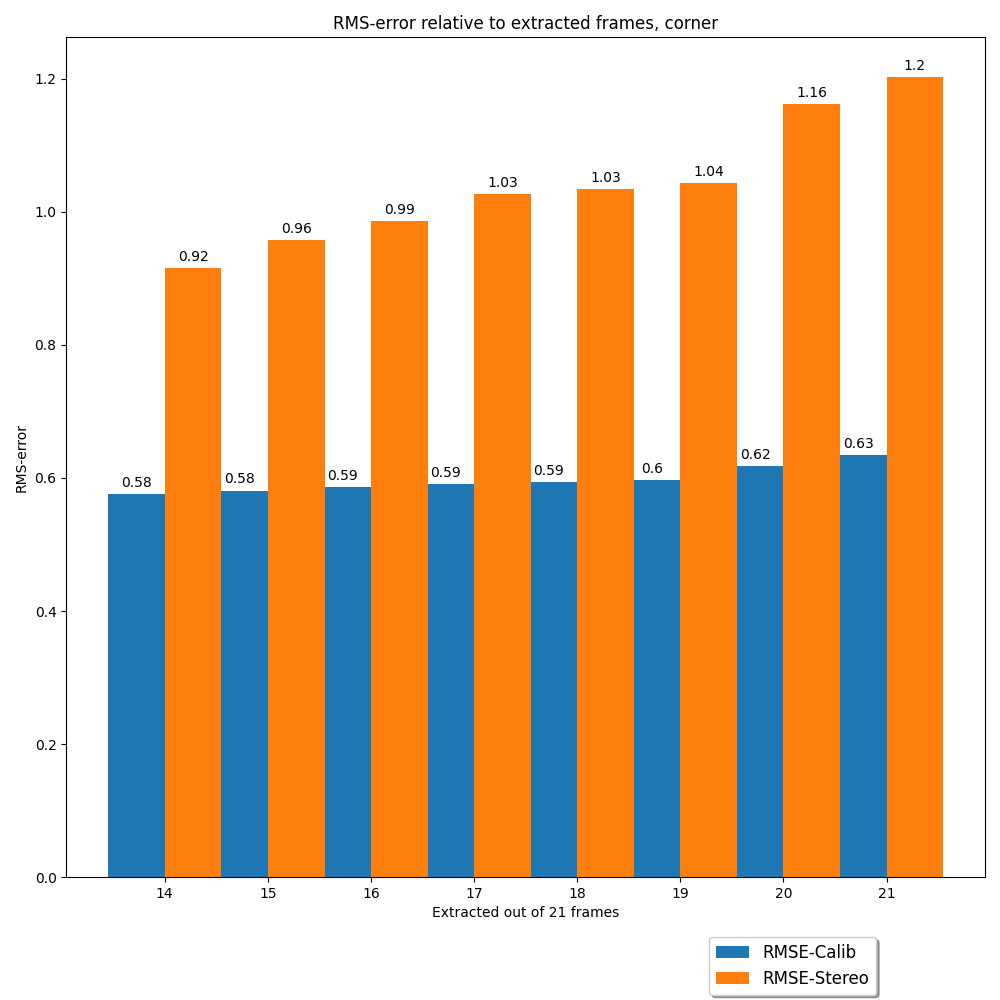
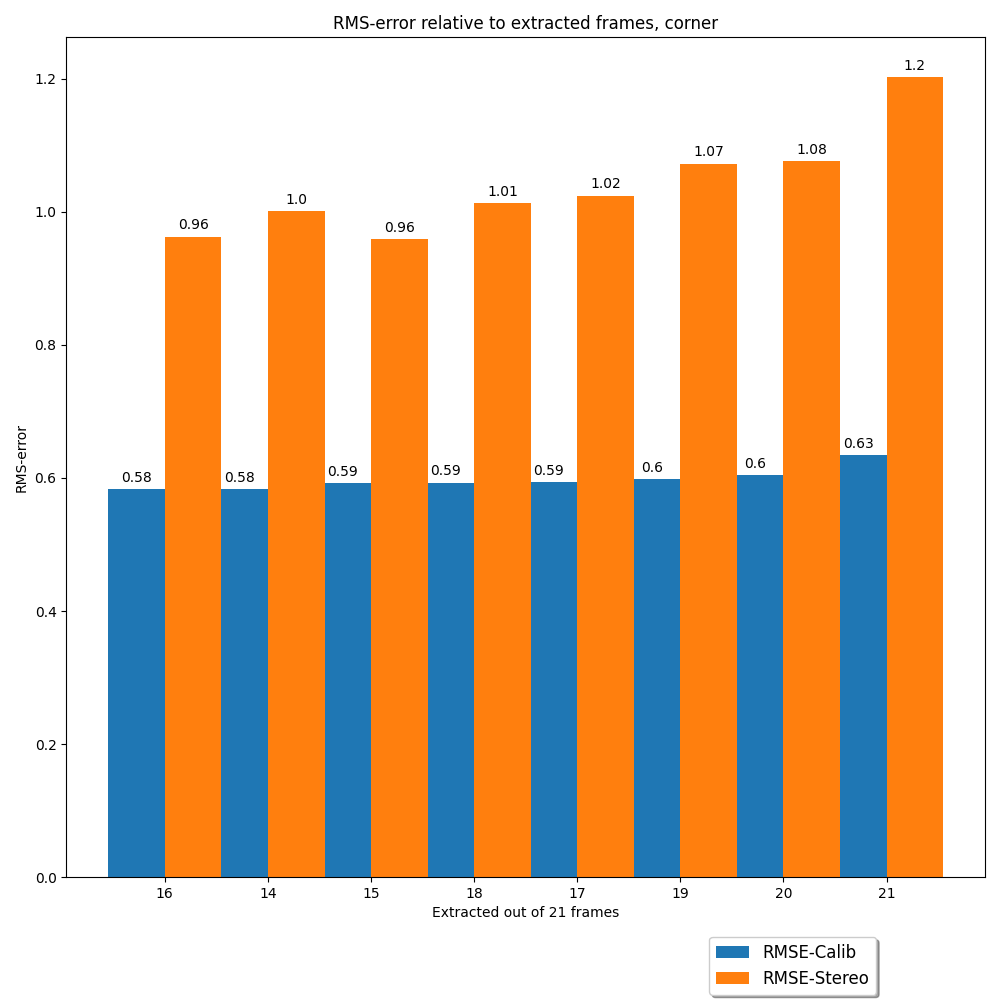
Added Scipy

diff --git a/src/Calibrate.py b/src/Calibrate.py
@@ -137,7 +137,7 @@ def main():
     #'number_shuffled_iteration'. The number of random shuffled iteration of the number of frames extracted  
     images_to_iterate = len(images)
     number_under_len = 8
-    number_shuffled_iteration = 40
+    number_shuffled_iteration = 15
     
 
     #Run ProjextorCalibrate from the Class ProjectorCalibrate
@@ -165,8 +165,8 @@ def main():
         # framepoints, are all the checkerboard coordinates in the point cloud detected by the findchessboardCorners()  
 
         #Visualizing the extrinsics parameters from the camera to the projector
-        #visualizationstereo(framepoints[0], flag[0][6],flag[0][7], "Extrinsics Parameters with flag {}".format(method[i]))
-        #visualizationstereo(framepoints[0], noflag[0][6],noflag[0][7], "Extrinsics Parameters without flag{}".format(method[i]))
+        visualizationstereo(framepoints[0], flag[0][6],flag[0][7], "Extrinsics Parameters with flag {}".format(method[i]))
+        visualizationstereo(framepoints[0], noflag[0][6],noflag[0][7], "Extrinsics Parameters without flag{}".format(method[i]))
 
         plot_reprojection(flag[0][5], flag[0][4],"Neglected tangential distortion, {} ".format(method[i]))
         plot_frame_rms_error(flag[:,8],flag[:,0], flag[:,1], "RMS-error relative to extracted frames, neglected tangential distortion, {}".format(method[i]), images_to_iterate)

diff --git a/setup.py b/setup.py
@@ -17,5 +17,6 @@ setuptools.setup(
         'pptk'
         'pyyaml'
         'open3d'
+        'scipy'
     ]
 )
